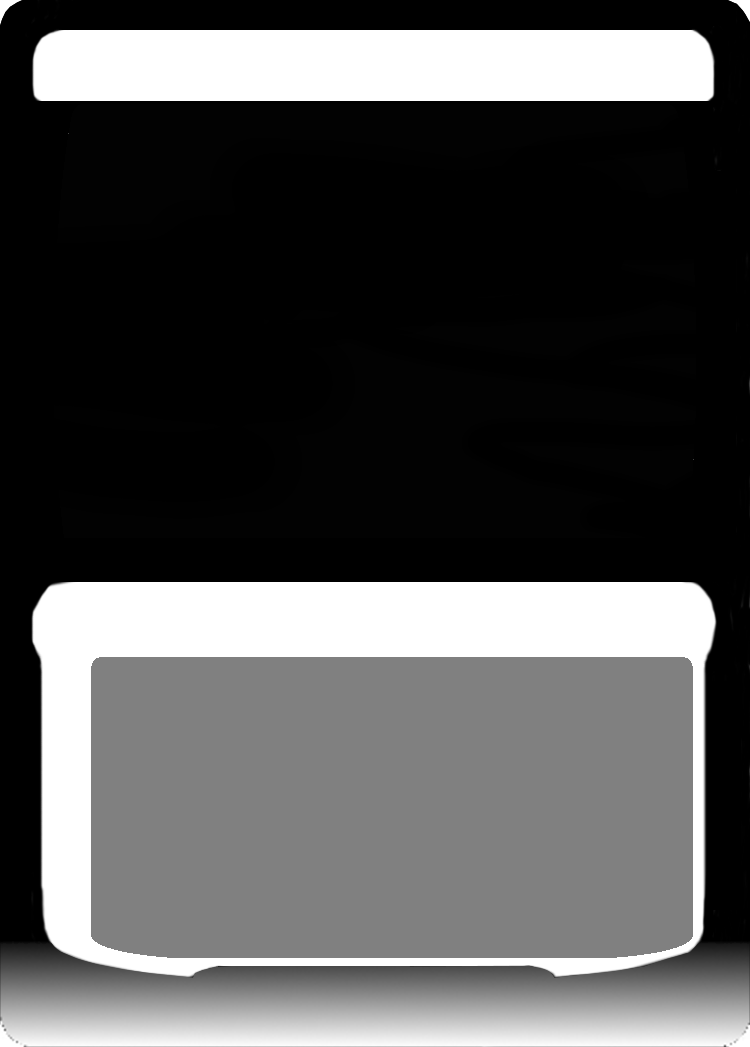
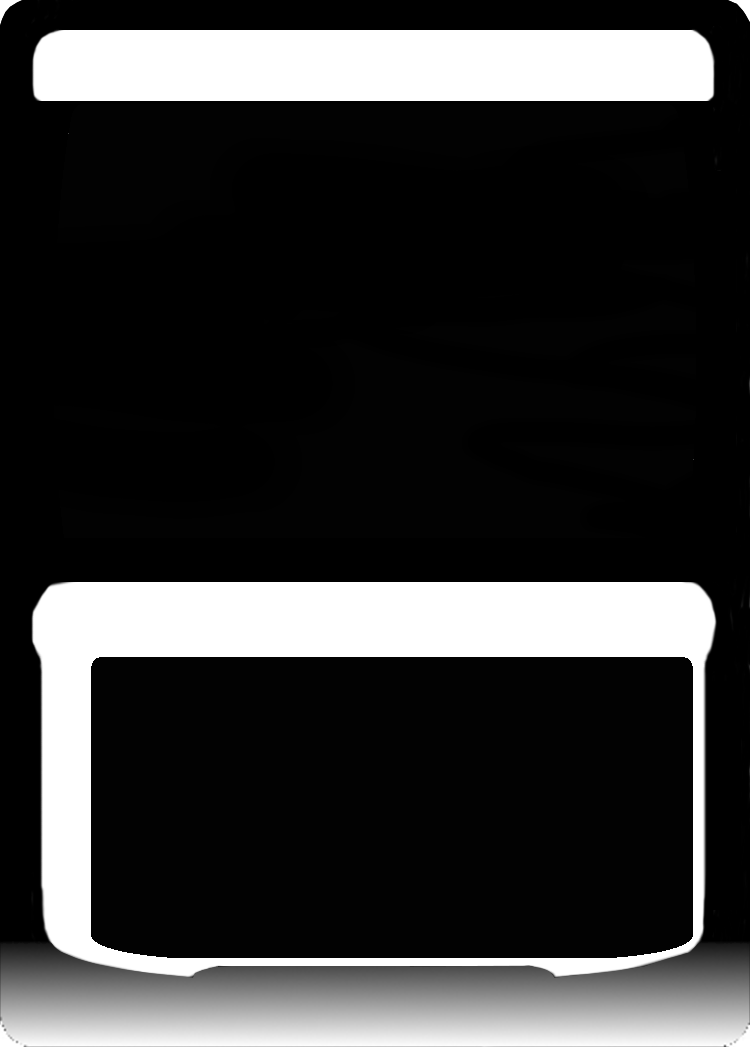
use better approach for walker ability backgrounds

Changed region(s): [[0.1227, 0.6113, 0.9507, 0.9169]]

diff --git a/modules/magic/M15/WalkerText/style.css b/modules/magic/M15/WalkerText/style.css
@@ -2,16 +2,19 @@
     --walker-ability-plus-bg: 'none';
     --walker-ability-minus-bg: 'none';
     --walker-ability-zero-bg: 'none';
+    --walker-ability-top-bg: 'none';
+    --walker-ability-bottom-bg: 'none';
+    --walker-ability-middle-offset: 5px;
 }
 
 module-container[module="WalkerText"] {
     display: flex;
     position: relative;
     overflow: hidden;
-    z-index: 2;
-    padding: 8px 13px 16px 0;
+    padding: 0 13px 7px 0;
     height: 163px;
     margin-bottom: 0.5px;
+    background-color: rgba(255, 255, 255, 0.3);
     --chop-top: 0px;
     --chop-bottom: 0px;
 }
@@ -76,10 +79,70 @@ module-container[module="WalkerText"] {
 
         &:first-of-type {
             margin-top: 0;
+            padding-top: 8px;
+
+            .border-top {
+                display: none;
+            }
+
+            .middle-bg {
+                top: 0;
+                height: calc(100% - var(--walker-ability-middle-offset));
+            }
         }
 
         &:last-of-type {
             margin-bottom: 0;
+            padding-bottom: 8px;
+
+            .border-bottom {
+                display: none;
+            }
+
+            .middle-bg {
+                height: calc(100% - var(--walker-ability-middle-offset));
+            }
+        }
+    }
+
+    .walker-ability-content, .walker-static-ability {
+        position: relative;
+
+        .border-top {
+            position: absolute;
+            left: 31px;
+            top: calc(var(--walker-ability-middle-offset) - 13px);
+            height: 13px;
+            width: 300px;
+            background: var(--walker-ability-top-bg);
+        }
+
+        .middle-bg {
+            position: absolute;
+            left: 31px;
+            top: var(--walker-ability-middle-offset);
+            height: calc(100% - 2 * var(--walker-ability-middle-offset));
+            width: 300px;
+            background-color: rgba(255, 255, 255, 0.3);
+        }
+
+        .border-bottom {
+            position: absolute;
+            left: 31px;
+            bottom: calc(var(--walker-ability-middle-offset) - 20px);
+            height: 20px;
+            width: 300px;
+            background: var(--walker-ability-bottom-bg);
+        }
+
+        p {
+            position: relative;
+        }
+    }
+
+    .walker-ability-content {
+        .border-top, .middle-bg, .border-bottom {
+            left: -23px;
         }
     }
 
@@ -97,6 +160,7 @@ module-container[module="WalkerText"] {
     .walker-ability-cost {
         display: flex;
         align-items: center;
+        z-index: 10;
 
         div.cost {
             background-size: 100%;

diff --git a/modules/magic/M15/WalkerText/src/AbilityConverter.js b/modules/magic/M15/WalkerText/src/AbilityConverter.js
@@ -17,9 +17,18 @@ function parseAbility(match) {
     };
 }
 
+function abiltiyBackgroundParts(index) {
+    if (index % 2 !== 0) return '';
+    return (
+        `<div class="border-top"></div>
+        <div class="middle-bg"></div>
+        <div class="border-bottom"></div>`
+    );
+}
+
 const abilityConverters = [{
     match: str => str.match(abilityExpr),
-    convert: (match, convertParagraphs) => {
+    convert: (match, convertParagraphs, index) => {
         const { type, cost, content } = parseAbility(match);
         return (
             `<div class="walker-ability">
@@ -28,6 +37,7 @@ const abilityConverters = [{
                     <div class="colon">:</div>
                 </div>
                 <div class="walker-ability-content">
+                    ${abiltiyBackgroundParts(index)}
                     ${convertParagraphs(content)}
                 </div>
             </div>`
@@ -35,15 +45,17 @@ const abilityConverters = [{
     }
 }, {
     match: str => str.match(/^([\s\S]+?)(?=[+−-]?(\d+|X):)/),
-    convert: (match, convertParagraphs) => (
+    convert: (match, convertParagraphs, index) => (
         `<div class="walker-static-ability">
+            ${abiltiyBackgroundParts(index)}
             ${convertParagraphs(match[1])}
         </div>`
     )
 }, {
     match: str => str.match(/^([\s\S]+?)$/),
-    convert: (match, convertParagraphs) => (
+    convert: (match, convertParagraphs, index) => (
         `<div class="walker-static-ability">
+            ${abiltiyBackgroundParts(index)}
             ${convertParagraphs(match[1])}
         </div>`
     )
@@ -63,10 +75,12 @@ export const AbilityConverter = {
     convert(match, { convertParagraphs }) {
         const html = [];
         let remainingStr = match[0];
+        let index = 0;
         while (remainingStr.length) {
             const [converter, match] = getAbilityConverter(remainingStr);
             if (!converter) throw new Error('Unknown ability');
-            html.push(converter.convert(match, convertParagraphs));
+            html.push(converter.convert(match, convertParagraphs, index));
+            index++;
             remainingStr = remainingStr.slice(match[0].length).trimStart();
         }
         return html.join('');

diff --git a/modules/magic/M15/WalkerFrame/src/WalkerAbilities.js b/modules/magic/M15/WalkerFrame/src/WalkerAbilities.js
@@ -3,11 +3,22 @@ const WalkerAbilitiesMixin = {
         return this.resolveWalkerAssetPath(`loyalty/${type}.png`);
     },
 
+    resolveAbilityBorder(type) {
+        const source = this.resolveWalkerAssetPath(`stripe/${type}.png`);
+        return this.ctx.makeTransparent(source, 0.5).publish();
+    },
+
     async resolveAbilities() {
         const style = {
             '--walker-ability-plus-bg': `url("${this.resolveCostIcon('plus')}")`,
             '--walker-ability-minus-bg': `url("${this.resolveCostIcon('minus')}")`,
             '--walker-ability-zero-bg': `url("${this.resolveCostIcon('zero')}")`,
+            '--walker-ability-top-bg': `url("${
+                await this.resolveAbilityBorder('top')
+            }")`,
+            '--walker-ability-bottom-bg': `url("${
+                await this.resolveAbilityBorder('bottom')
+            }")`,
         };
         return { id: 'walker-ability', style };
     }

diff --git a/modules/magic/M15/WalkerFrame/src/WalkerFrame.js b/modules/magic/M15/WalkerFrame/src/WalkerFrame.js
@@ -4,7 +4,6 @@ import TrimMasks from '../../Frame/src/mixins/TrimMasks.js';
 import Border from '../../Frame/src/mixins/Border.js';
 import Node from '../../Frame/src/mixins/Node.js';
 import WalkerAbilities from './WalkerAbilities.js';
-import WalkerAbilityBackgrounds from './WalkerAbilityBackgrounds.js';
 
 export default class WalkerFrame extends CardFrame.with(
     Frame,
@@ -12,7 +11,6 @@ export default class WalkerFrame extends CardFrame.with(
     Border,
     Node,
     WalkerAbilities,
-    WalkerAbilityBackgrounds,
 ) {
     get frameExt() {
         return '.png';

diff --git a/modules/magic/M15/Loyalty/main.js b/modules/magic/M15/Loyalty/main.js
@@ -10,7 +10,7 @@ export default class LoyaltyModule extends CardMagicianModule {
         const style = `background-image: url('${loyaltyImage}')`;
         return (
             `<div class="loyalty-text" style="${style}">
-                ${this.escapeHTML(card.loyalty)}
+                <div style="position: relative;">${this.escapeHTML(card.loyalty)}</div>
             </div>`
         );
     }
